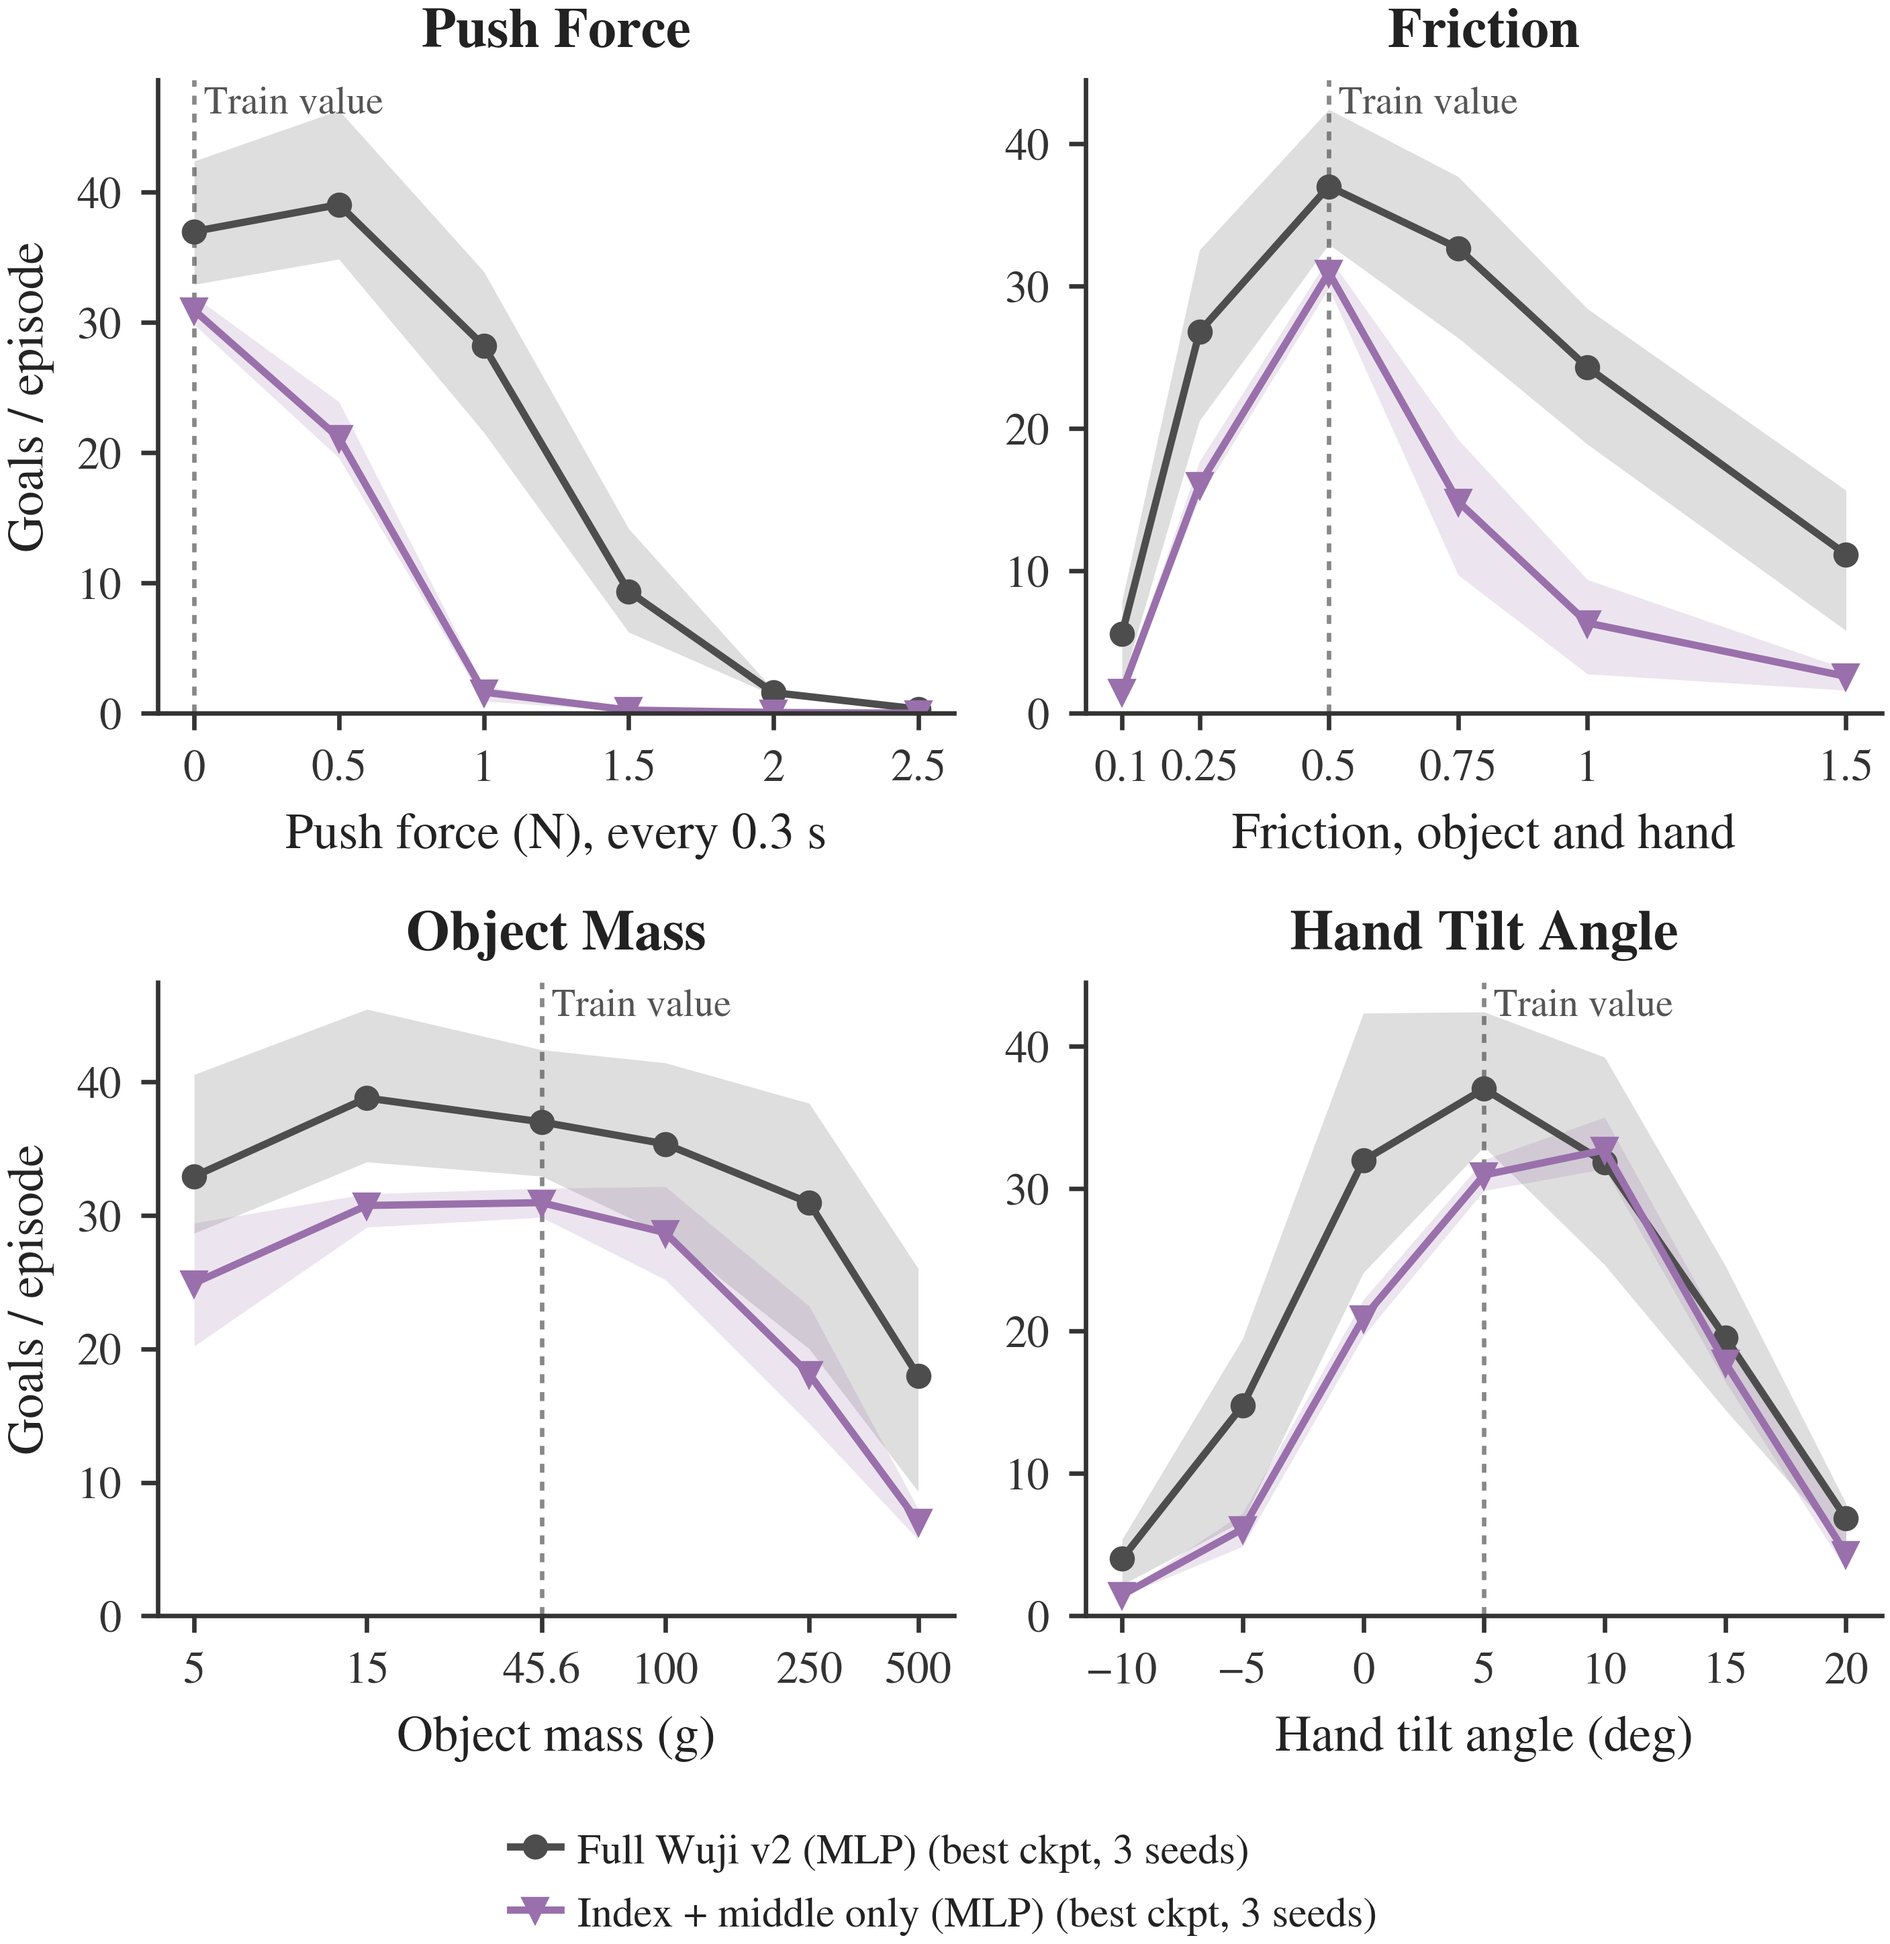
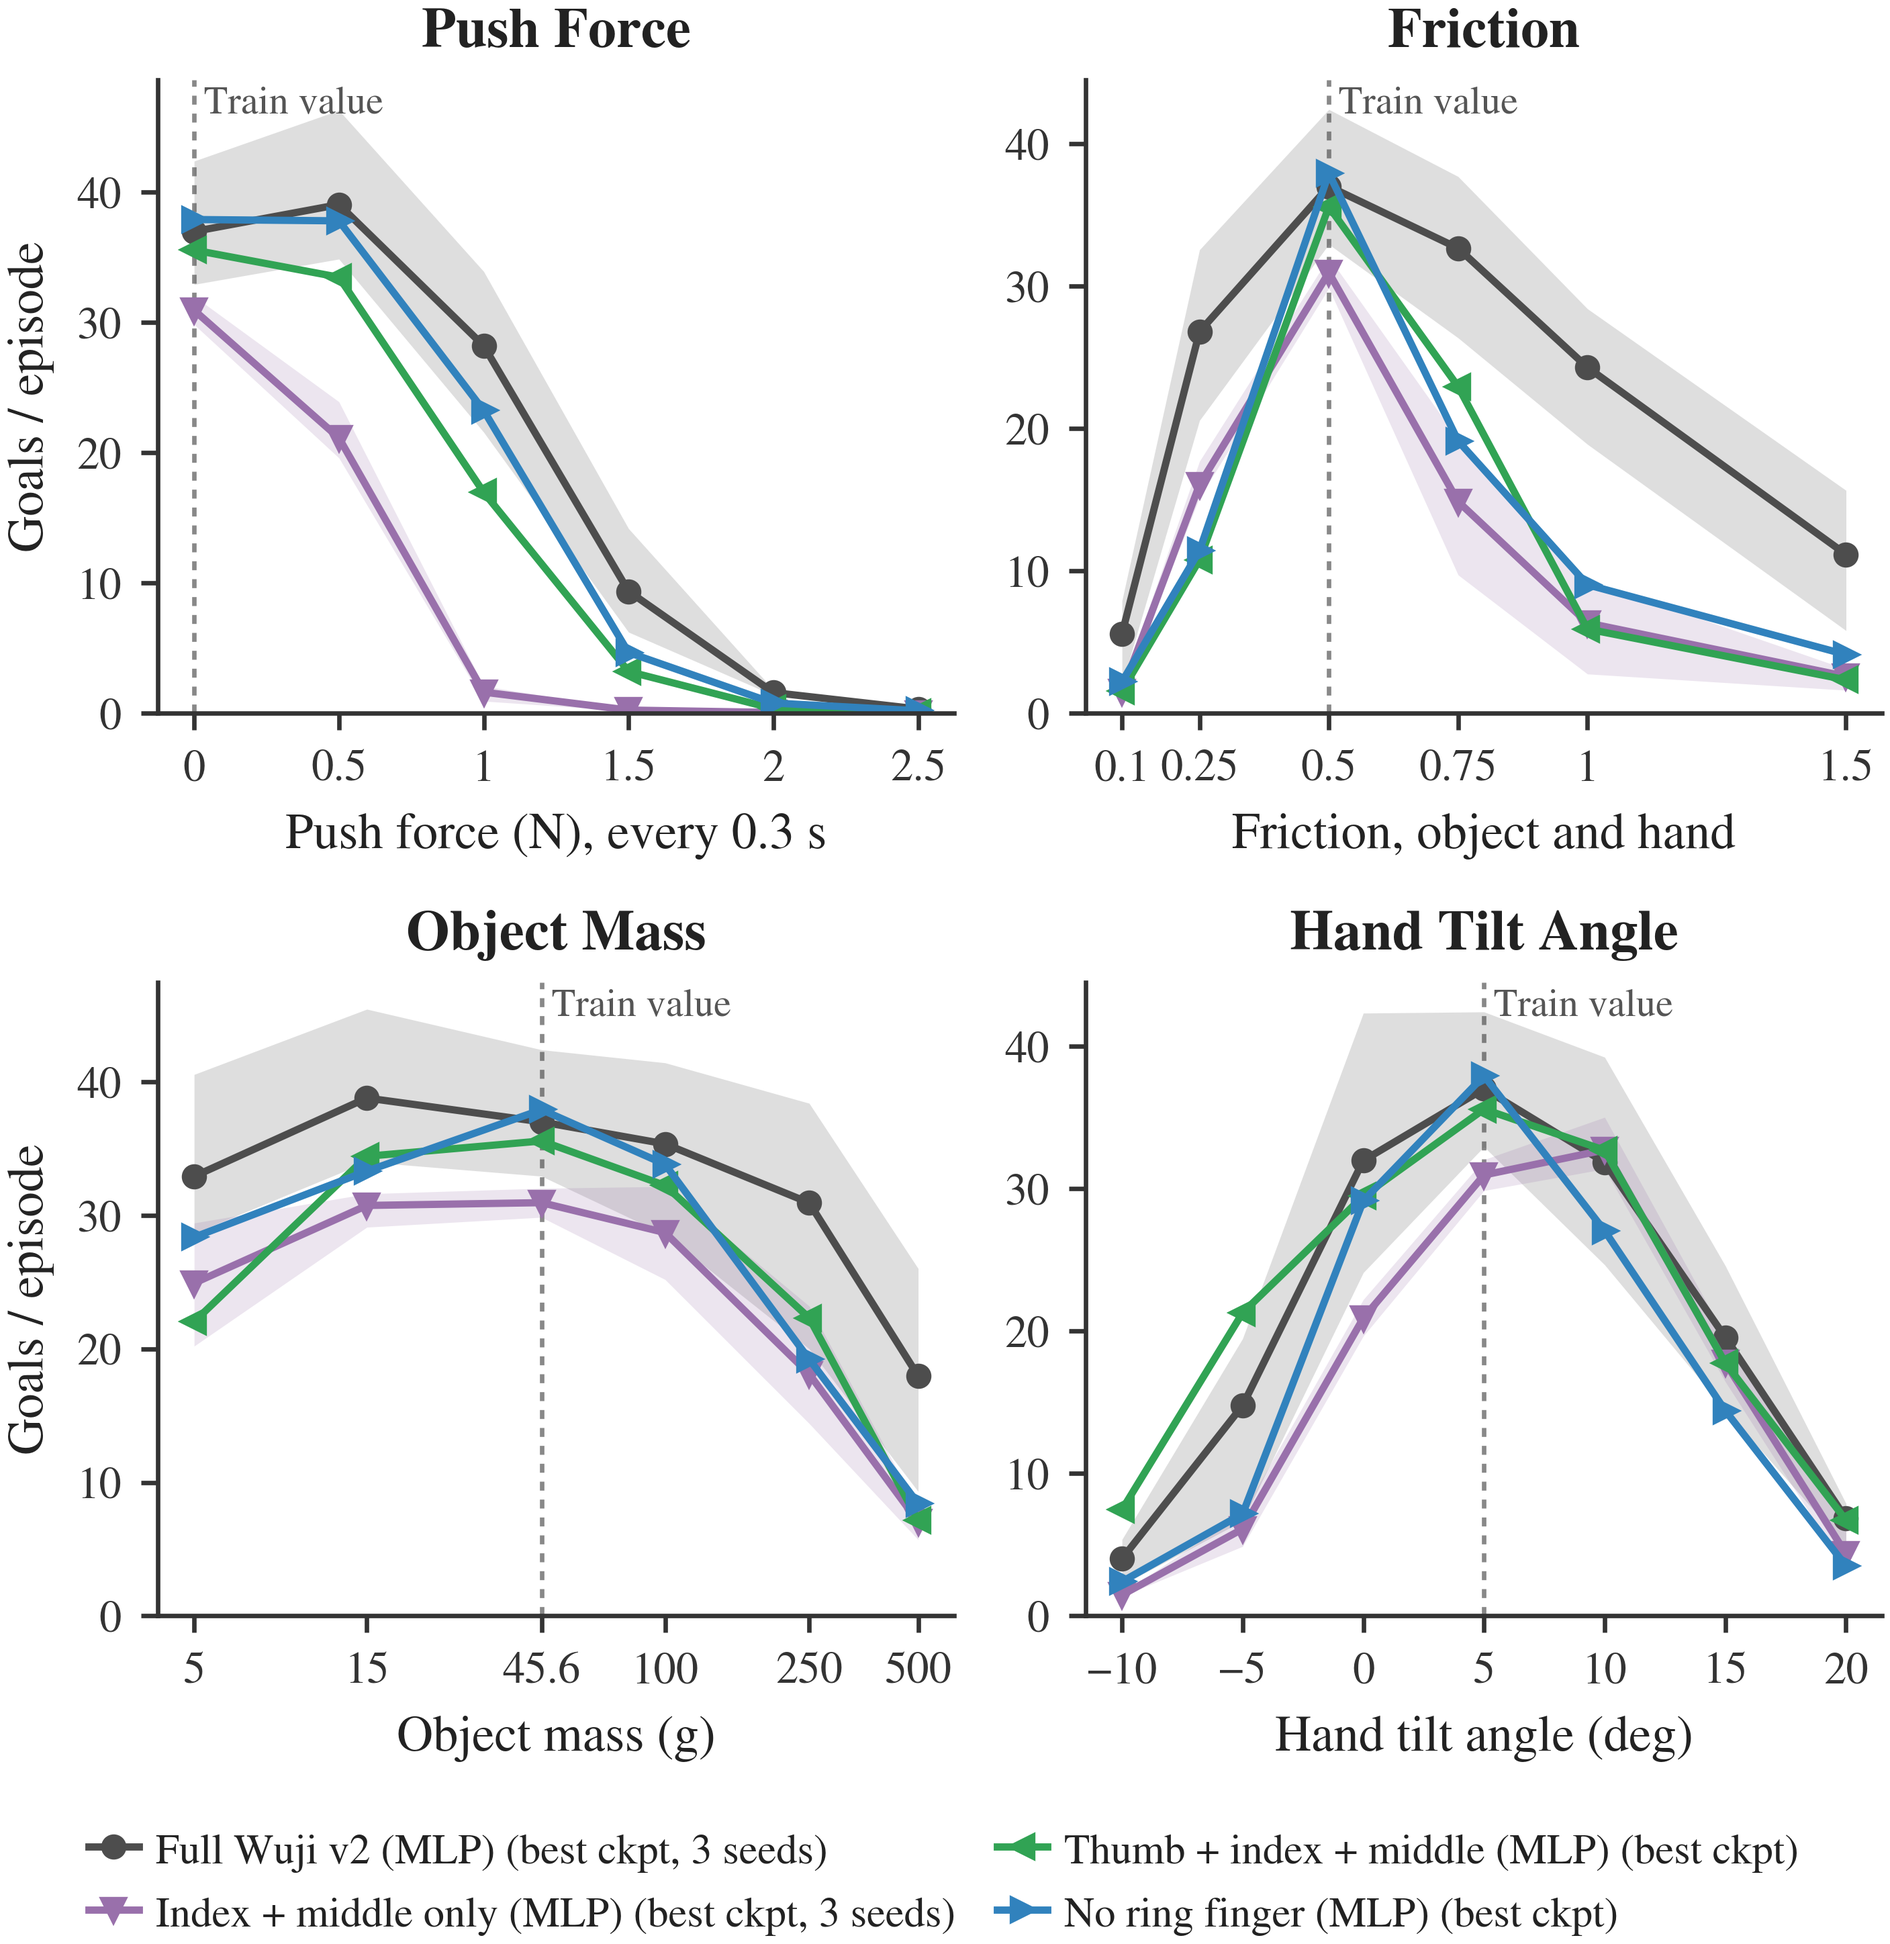
plots: finger subsets with no-ring and thumb+index+middle (best ckpts); h5 drawn only once DR results exist
Claude-Session: https://claude.ai/code/session_01VEjfLD7vkNCwPYPC2HsL71

diff --git a/experiments/08oct_repro_wuji_full/plots/README.md b/experiments/08oct_repro_wuji_full/plots/README.md
@@ -20,10 +20,14 @@ Forward tilt does not separate them.
 ## H1: fewer fingers, less robust (`h1_fewer_fingers_less_robust/`)
 
 `finger_subsets.png` places the full hand, the hand without the ring finger, thumb + index + middle, and index + middle
-side by side. Is the robustness lost gradually as fingers go, or all at once?
+side by side (MLP; full and index + middle 3 seeds, the other two 1 seed). All four score within 7 goals per episode
+of each other at the training condition (31-38).
 
-The no-ring and thumb + index + middle runs are still training (9 Oct). Until they finish, this figure shows only the
-headline pair.
+- Push: a thumb and a third finger are enough. No ring scores 23 and thumb + index + middle 17 at 1 N, against the
+  full hand's 28 and index + middle's 2.
+- High friction and heavy objects: only the full hand holds up. Without the ring finger the score drops to index +
+  middle's level, 9 vs 24 at friction 1.0 and 8 vs 18 at 500 g.
+- Tilt: no finger-count pattern; thumb + index + middle does best when the hand tilts back.
 
 ## H2: link geometry changes which perturbations a hand tolerates (`h2_link_geometry/`)
 
